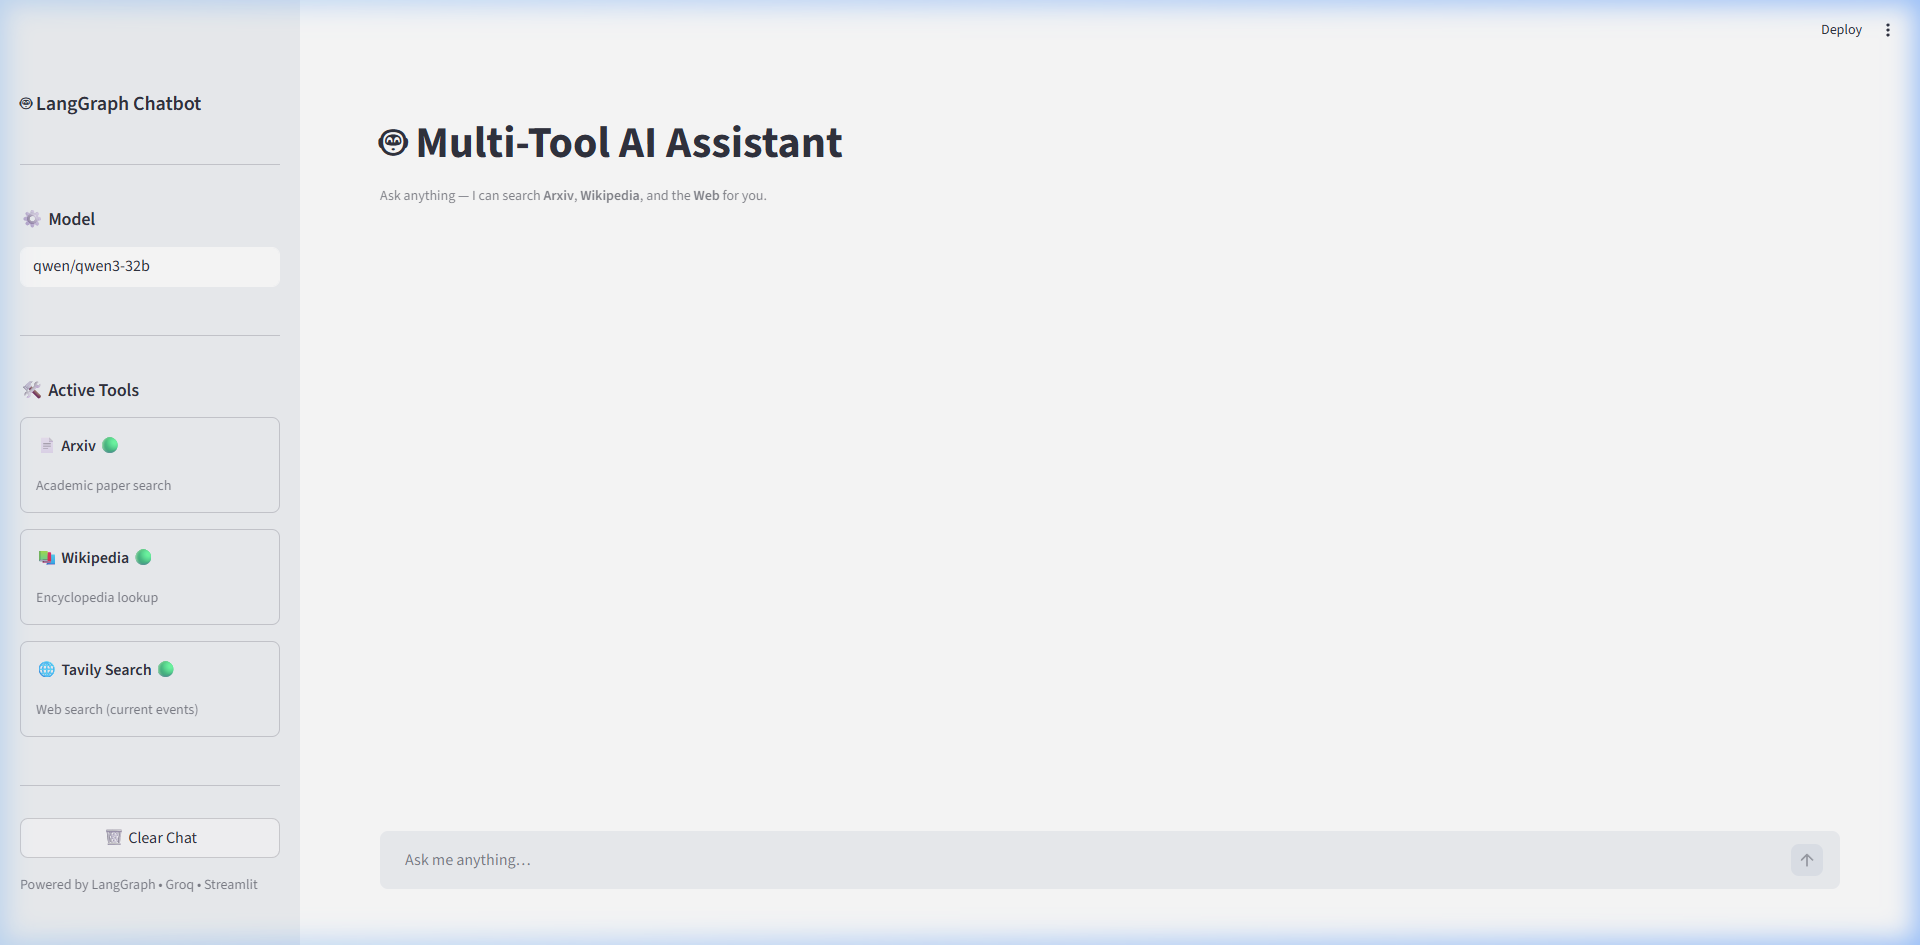
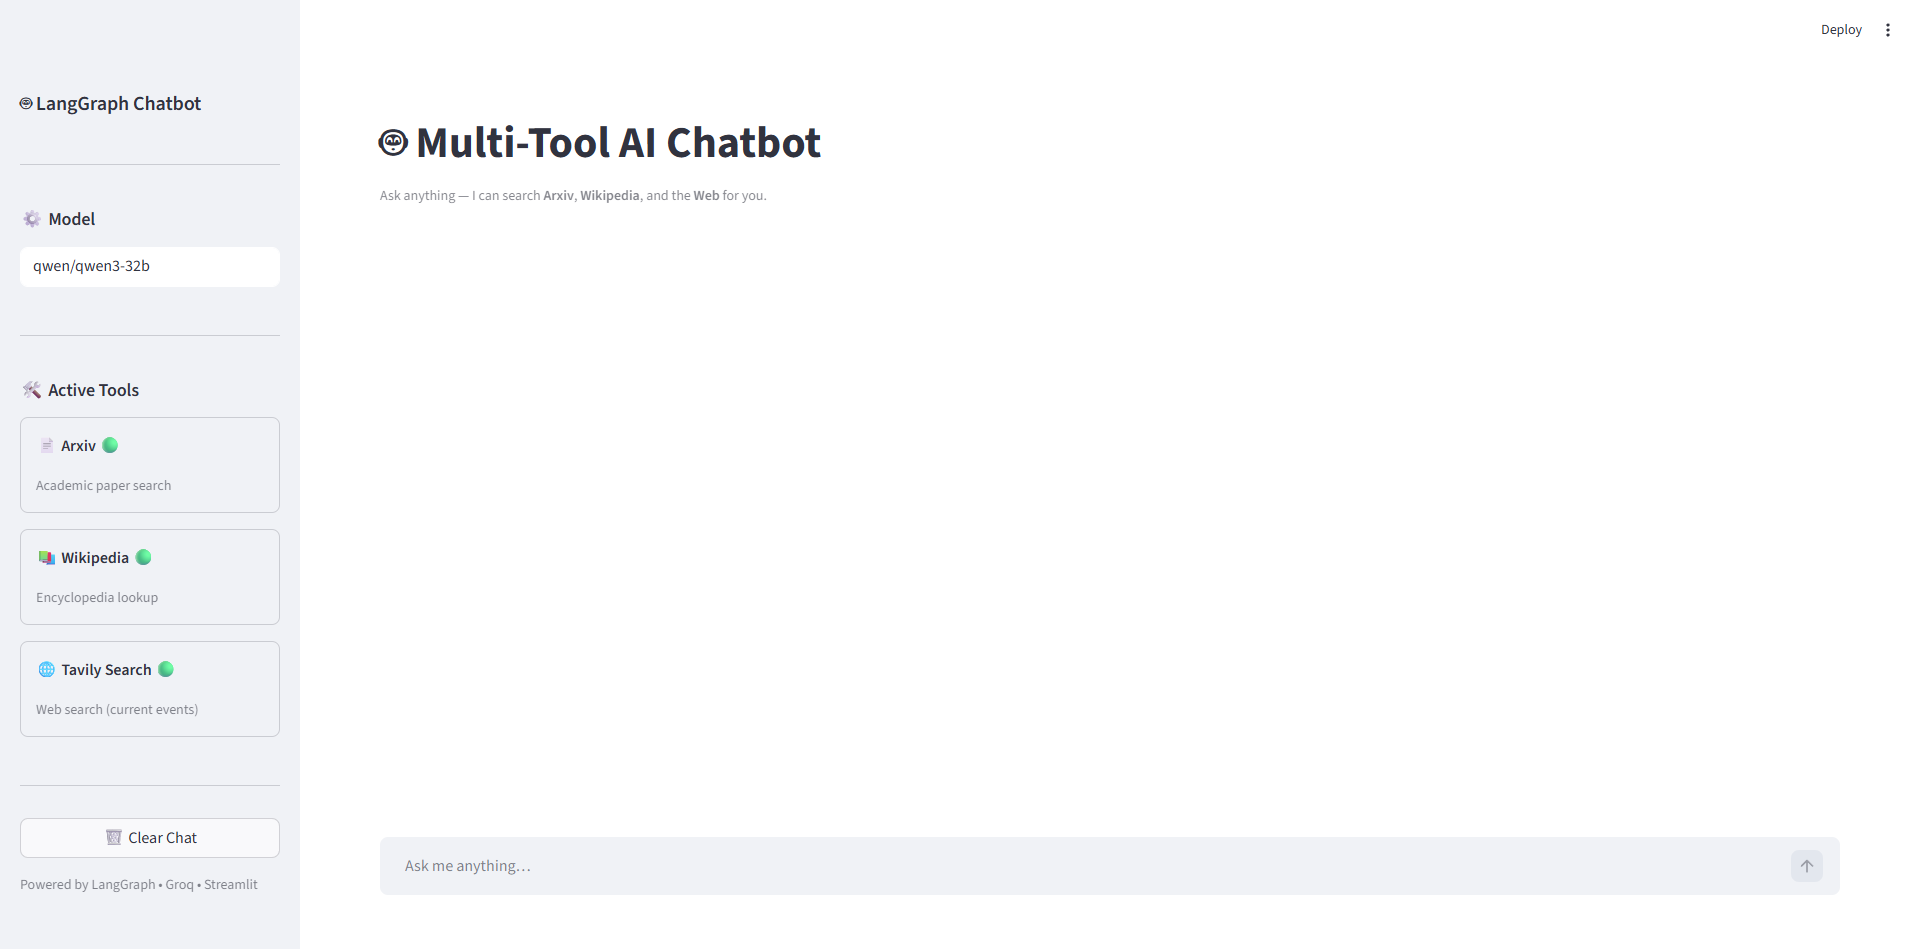
Project Complete

diff --git a/app.py b/app.py
@@ -68,7 +68,7 @@ if "graph" not in st.session_state or st.session_state.get("_model") != model_na
 
 
 # ── Header ──────────────────────────────────────────────────────────────────
-st.title("🤖 Multi-Tool AI Assistant")
+st.title("🤖 Multi-Tool AI Chatbot")
 st.caption("Ask anything — I can search **Arxiv**, **Wikipedia**, and the **Web** for you.")
 
 
